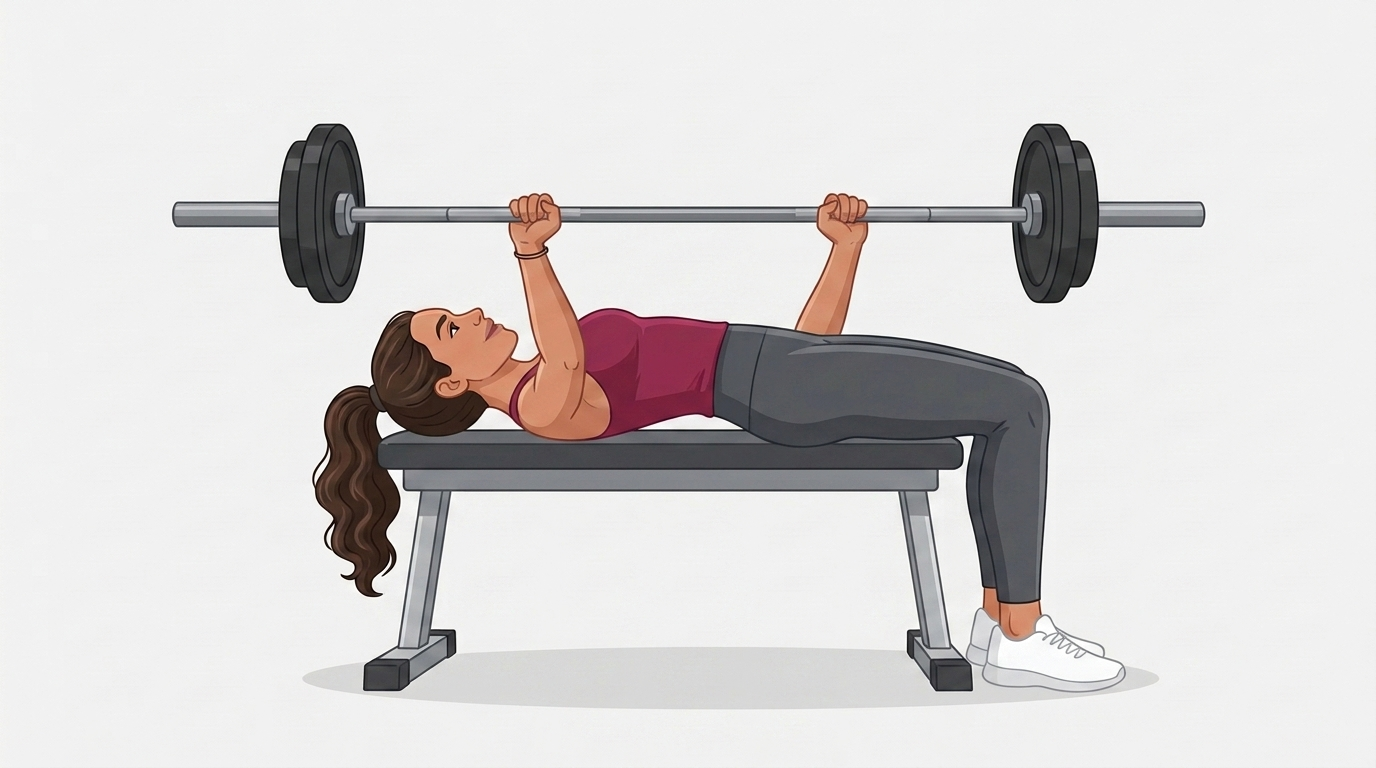
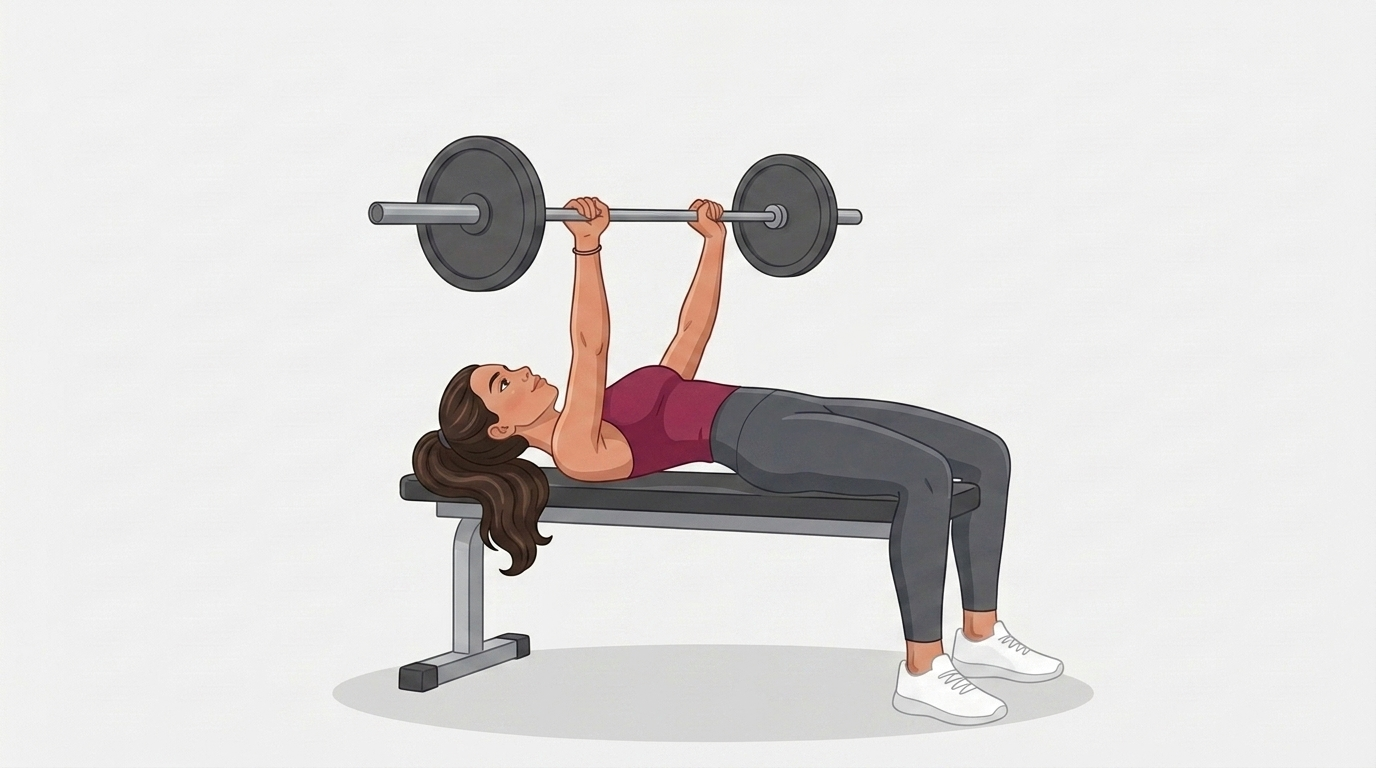
Regenera 9 imagens de exercicio com defeito (personagem YaraApp no Flow)
Substitui as 9 ilustracoes que tinham erro visivel (equipamento
irreconhecivel, halteres fundidos, pose ambigua, anatomia): supino reto
barra, triceps frances/testa/elastico, elevacao frontal, remada alta,
agachamento halteres, elevacao pelvica barra, puxada alta elastico.
Mesma personagem/estilo/enquadramento (1376x768) das outras 47.
Atualiza o doc-comment desatualizado de Exercicio.caminhoImagem.

Changed region(s): [[0.125, 0.1562, 0.875, 0.9688]]

diff --git a/lib/models/exercicio.dart b/lib/models/exercicio.dart
@@ -77,13 +77,12 @@ extension EquipamentoLabel on Equipamento {
 /// quanto pelo filtro "en casa" da biblioteca de exercícios.
 const equipamentosCasa = {Equipamento.nenhum, Equipamento.elastico};
 
-/// Um exercício da biblioteca. `caminhoImagem` fica nulo por enquanto para
-/// todos os exercícios — a demonstração visual foi decidida como imagem
-/// gerada por IA (personagem consistente), não vídeo/GIF nem banco de
-/// imagens licenciado (ver briefing do produto), mas a produção real
-/// dessas imagens é um passo externo que ainda não aconteceu. Quando
-/// existir, é um asset local do app (conteúdo pré-gravado, sem custo
-/// recorrente de geração por usuária).
+/// Um exercício da biblioteca. `caminhoImagem` aponta para a imagem de
+/// demonstração — asset local do app (`assets/personagem/<id>.jpg`),
+/// ilustração da personagem consistente gerada por IA (personagem
+/// consistente, não vídeo/GIF nem banco de imagens licenciado — ver
+/// briefing do produto). Fica nulo só para exercícios ainda sem imagem
+/// própria, e aí a tela cai na ilustração genérica do grupo muscular.
 class Exercicio {
   const Exercicio({
     required this.id,
